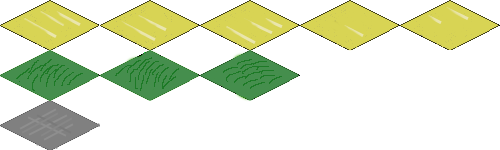
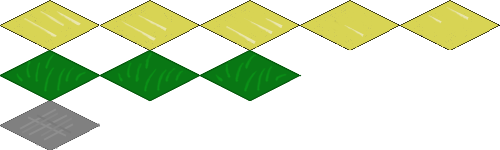
Improved UI and tiles
- Cleaned UI up
- Re-drawn the grass animation.

diff --git a/src/main/webapp/Scripts/client.js b/src/main/webapp/Scripts/client.js
@@ -39,21 +39,21 @@ define(['jquery', 'engine'], function($, Engine) {
                 createUi: function(context) {
                     var ui = context.foreignObject(150,600),
                         speed = 100,
-                        toolbar = $('<div style="background-color:LightSteelBlue;padding:5px"></div>'),
-                        up = $('<button type="button">UP</button>').click(function(e) {
+                        toolbar = $('<div class="menu"></div>'),
+                        up = $('<button type="button" class="arrow up" alt="Up">&#8593;</button>').click(function(e) {
                             engine.move(0, -speed);
                         }),
-                        down = $('<button type="button">DOWN</button>').click(function(e) {
+                        down = $('<button type="button" class="arrow down" alt="Down">&#8595;</button>').click(function(e) {
                             engine.move(0, speed);
                         }),
-                        left = $('<button type="button">LEFT</button>').click(function(e) {
+                        left = $('<button type="button" class="arrow left" alt="Left">&#8592;</button>').click(function(e) {
                             engine.move(-speed, 0);
                         }),
-                        right = $('<button type="button">RIGHT</button>').click(function(e) {
+                        right = $('<button type="button" class="arrow right" alt="Right">&#8594;</button>').click(function(e) {
                             engine.move(speed, 0);
                         });
                         
-                    toolbar.append(up, down, left, right);
+                    toolbar.append(left, up, down, right);
                     $(ui.node).append(toolbar);
                     
                     ui.move(context.width() - ui.width() - 30, 30);

diff --git a/src/main/webapp/Styles/tile.css b/src/main/webapp/Styles/tile.css
@@ -24,3 +24,14 @@
     stroke: black;
     stroke-width: 1px;
 }
+
+.menu {
+    background-color: LightSteelBlue;
+    padding: 5px;
+    float:left;
+}
+
+.arrow {
+    width: 2em;
+    height: 2em;
+}

diff --git a/src/main/java/cz/muni/fi/xsvobo42/svg/engine/model/Chunk.java b/src/main/java/cz/muni/fi/xsvobo42/svg/engine/model/Chunk.java
@@ -50,6 +50,7 @@ public class Chunk {
     public void updateTiles() {
         // TODO: Replace with single query
         int changed = 0;
+        int volatilityLimit = 50;
         
         for (int x = 0; x < height; x++) {
             List<Tile> row = tiles.get(x);
@@ -57,7 +58,7 @@ public class Chunk {
             for (int y = 0; y < width; y++) {
                 Tile tile = new Tile(new Point(this.topLeft.getX() + x, this.topLeft.getY() + y));
                 
-                if(changed < 100) {
+                if(changed < volatilityLimit) {
                     if(tile.updateData()){
                         changed++;
                     }
